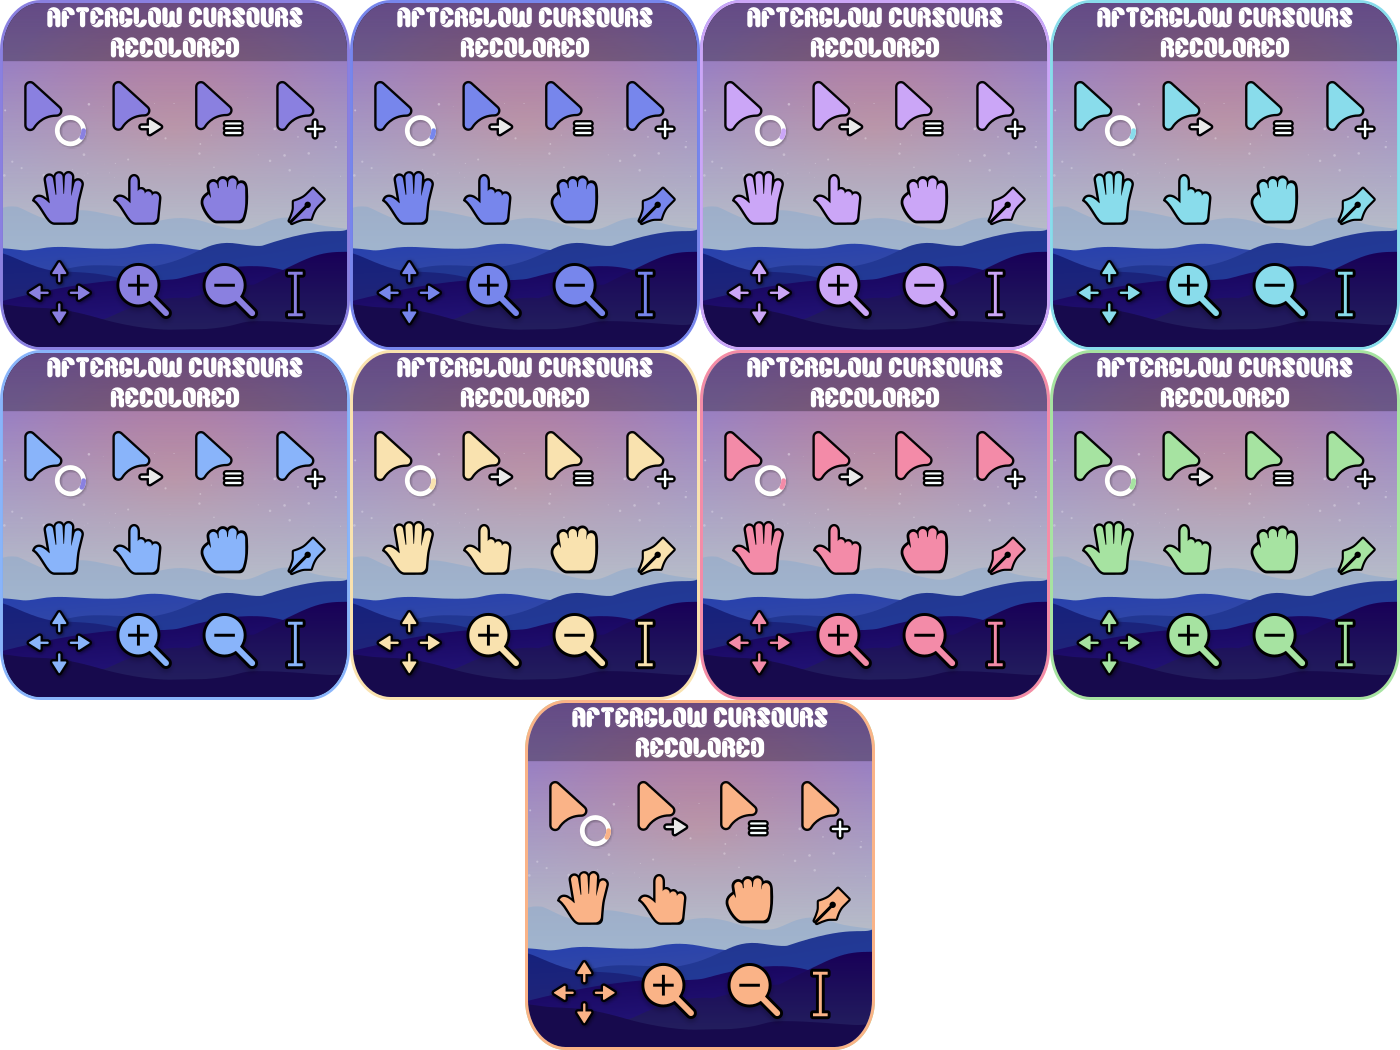
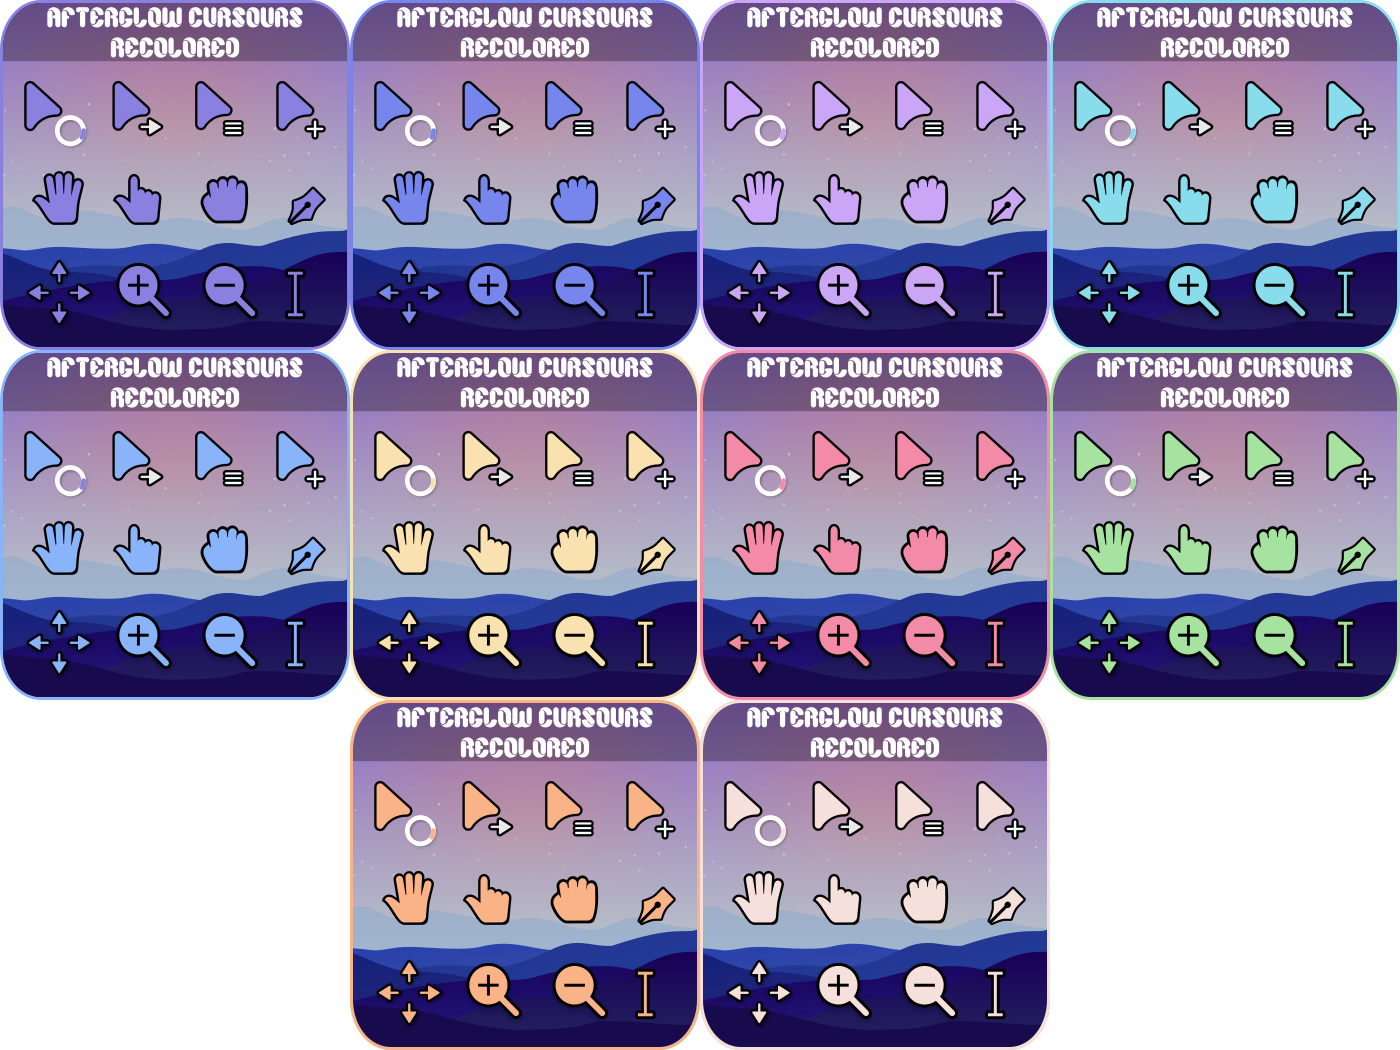
Added Catppuccin Rosewater, Debian/Windows install tut, Catppuccin Green & Yellow. Contributions.

Changed region(s): [[0.2457, 0.64, 0.7679, 1.0]]

diff --git a/README.md b/README.md
@@ -57,7 +57,7 @@ Enjoy! And many thanks to [coffeewasmyidea](https://github.com/coffeewasmyidea) 
 
 ## Installation (Windows)
 
-Download the Zip file of the color you prefer in the [Releases Alt Colors Catppuccin (Windows)](https://github.com/TeddyBearKilla/Afterglow-Cursors-Recolored/releases/tag/Windows-Catppuccin)
+Download the Zip file of the color you prefer in the [Releases: Alt Colors Catppuccin (Windows)](https://github.com/TeddyBearKilla/Afterglow-Cursors-Recolored/releases/tag/Windows-Catppuccin)
 
 Extract it anywhere.
 
